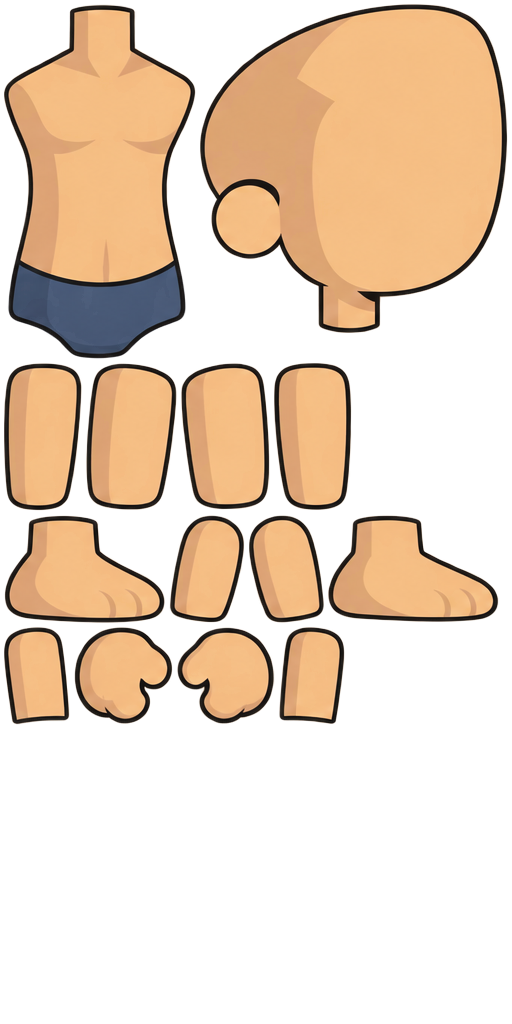
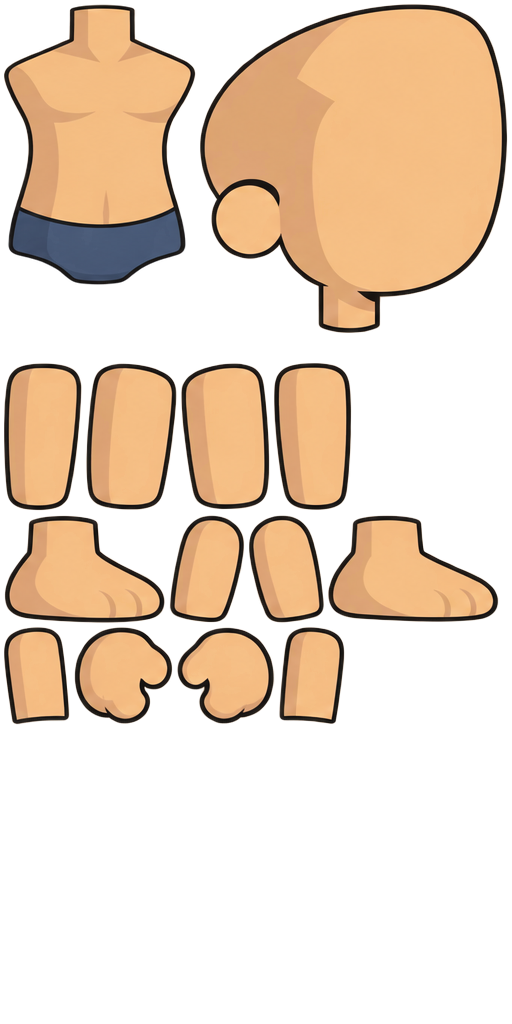
presentation: shorten humanoid central body proportions
Shorten the pelvis-to-head chain and the single torso sprite so the long rigid body can be tested without a new bone or a global scale change.

Changed region(s): [[0.0, 0.0, 0.4062, 0.375], [0.2188, 0.0, 0.25, 0.0312]]

diff --git a/tools/Character part lab/humanoid_v0_contract.js b/tools/Character part lab/humanoid_v0_contract.js
@@ -5,12 +5,12 @@ window.PURGATORY_HUMANOID_V0_CONTRACT = {
   bones: {
     'root': { parent: null, t: [0.00, 0.00], r: 0.00 },
     'pelvis': { parent: 'root', t: [0.00, 0.42], r: 0.00 },
-    'torso': { parent: 'pelvis', t: [0.00, 0.30], r: 0.00 },
-    'head': { parent: 'torso', t: [0.07, 0.24], r: 0.00 },
-    'upper_arm_front': { parent: 'torso', t: [-0.10, 0.14], r: 0.00 },
+    'torso': { parent: 'pelvis', t: [0.00, 0.23], r: 0.00 },
+    'head': { parent: 'torso', t: [0.07, 0.20], r: 0.00 },
+    'upper_arm_front': { parent: 'torso', t: [-0.10, 0.11], r: 0.00 },
     'lower_arm_front': { parent: 'upper_arm_front', t: [0.00, -0.22], r: 0.00 },
     'hand_front': { parent: 'lower_arm_front', t: [0.00, -0.10], r: 0.00 },
-    'upper_arm_back': { parent: 'torso', t: [0.08, 0.14], r: 0.00 },
+    'upper_arm_back': { parent: 'torso', t: [0.08, 0.11], r: 0.00 },
     'lower_arm_back': { parent: 'upper_arm_back', t: [0.00, -0.22], r: 0.50 },
     'hand_back': { parent: 'lower_arm_back', t: [0.00, -0.10], r: 0.00 },
     'upper_leg_front': { parent: 'pelvis', t: [-0.06, -0.04], r: 0.00 },

diff --git a/crates/skeleton/src/humanoid.rs b/crates/skeleton/src/humanoid.rs
@@ -55,15 +55,20 @@ const fn tr(x: f32, y: f32) -> BoneTransform {
 /// before art integration without changing bone topology.
 pub const BIND_ROOT: BoneTransform = tr(0.0, 0.0);
 pub const BIND_PELVIS: BoneTransform = tr(0.0, 0.42);
-pub const BIND_TORSO: BoneTransform = tr(0.0, 0.30);
+/// Rescue V1: pelvis→torso is 0.23 wu. With `BIND_HEAD` that is a 0.43 wu
+/// pelvis→head span, about 20% shorter than the previous 0.54 wu chain.
+/// Pelvis and leg binds are unchanged so the feet stay planted.
+pub const BIND_TORSO: BoneTransform = tr(0.0, 0.23);
 /// P4.2: +X lead so the head reads RIGHT-facing 3/4, not camera-front.
-pub const BIND_HEAD: BoneTransform = tr(0.07, 0.24);
+/// Y matches the shortened torso sprite (same neck gap above the chest art).
+pub const BIND_HEAD: BoneTransform = tr(0.07, 0.20);
 /// Near arm chain (Front). Bind X is the former Back shoulder X; Front identity is unchanged.
-pub const BIND_UPPER_ARM_FRONT: BoneTransform = tr(-0.10, 0.14);
+/// Y sits on the shortened chest (same fraction of the torso sprite as before).
+pub const BIND_UPPER_ARM_FRONT: BoneTransform = tr(-0.10, 0.11);
 pub const BIND_LOWER_ARM_FRONT: BoneTransform = tr(0.0, -0.22);
 pub const BIND_HAND_FRONT: BoneTransform = tr(0.0, -0.10);
 /// Far arm chain (Back). Bind X is the former Front shoulder X; Back identity is unchanged.
-pub const BIND_UPPER_ARM_BACK: BoneTransform = tr(0.08, 0.14);
+pub const BIND_UPPER_ARM_BACK: BoneTransform = tr(0.08, 0.11);
 /// Mild +CCW elbow bend (~29°) so the far forearm peeks toward +X (RIGHT). Length unchanged.
 pub const BIND_LOWER_ARM_BACK: BoneTransform =
     BoneTransform::from_translation_rotation([0.0, -0.22], 0.50);

diff --git a/crates/skeleton/src/tests.rs b/crates/skeleton/src/tests.rs
@@ -442,8 +442,8 @@ fn humanoid_v0_hip_bind_x_is_widened_neutral_stance() {
 fn humanoid_v0_shoulder_bind_x_is_three_quarter_right() {
     assert!((BIND_UPPER_ARM_FRONT.translation[0] + 0.10).abs() < EPS);
     assert!((BIND_UPPER_ARM_BACK.translation[0] - 0.08).abs() < EPS);
-    assert!((BIND_UPPER_ARM_FRONT.translation[1] - 0.14).abs() < EPS);
-    assert!((BIND_UPPER_ARM_BACK.translation[1] - 0.14).abs() < EPS);
+    assert!((BIND_UPPER_ARM_FRONT.translation[1] - 0.11).abs() < EPS);
+    assert!((BIND_UPPER_ARM_BACK.translation[1] - 0.11).abs() < EPS);
     assert!(BIND_UPPER_ARM_FRONT.rotation.abs() < EPS);
     assert!(BIND_UPPER_ARM_BACK.rotation.abs() < EPS);
     assert!(BIND_LOWER_ARM_FRONT.translation[0].abs() < EPS);
@@ -523,7 +523,13 @@ fn torso_placeholder_is_authored_in_torso_bone_local() {
 #[test]
 fn humanoid_v0_head_bind_leads_slightly_right() {
     assert!((BIND_HEAD.translation[0] - 0.07).abs() < EPS);
-    assert!((BIND_HEAD.translation[1] - 0.24).abs() < EPS);
+    assert!((BIND_HEAD.translation[1] - 0.20).abs() < EPS);
+    let central = BIND_TORSO.translation[1] + BIND_HEAD.translation[1];
+    assert!(
+        (central - 0.43).abs() < EPS,
+        "pelvis→head span must stay on the shortened rescue chain"
+    );
+    assert!((BIND_PELVIS.translation[1] - 0.42).abs() < EPS);
     assert!(BIND_HEAD.rotation.abs() < EPS);
 }
 

diff --git a/apps/client/src/skeleton_debug.rs b/apps/client/src/skeleton_debug.rs
@@ -2217,7 +2217,7 @@ mod tests {
         assert!(tr_eq(attach, head_xf.translation));
         assert!(c[2][0] - head_xf.translation[0] > head_xf.translation[0] - c[3][0]);
         assert!((BIND_HEAD.translation[0] - 0.07).abs() < EPS);
-        assert!((BIND_HEAD.translation[1] - 0.24).abs() < EPS);
+        assert!((BIND_HEAD.translation[1] - 0.20).abs() < EPS);
         assert!(head_xf.translation[0] > rig.world().get(TORSO).unwrap().translation[0]);
     }
 

diff --git a/docs/HUMANOID_RIG_SPEC.md b/docs/HUMANOID_RIG_SPEC.md
@@ -129,10 +129,10 @@ Current S1 bind locals (parent-relative, rotation 0 unless noted):
 
 - `root` `(0, 0)`
 - `pelvis` `(0, 0.42)`
-- `torso` `(0, 0.30)`
-- `head` `(0.07, 0.24)` — P4.2 +X lead (RIGHT-facing 3/4)
-- `upper_arm_front` `(-0.10, 0.14)` / `lower_arm_front` `(0, -0.22)` / `hand_front` `(0, -0.10)` — Front chain at the former Back shoulder X; Front identity unchanged
-- `upper_arm_back` `(0.08, 0.14)` / `lower_arm_back` `(0, -0.22)` rotation `+0.50` (~29°, peeks +X) / `hand_back` `(0, -0.10)` — Back chain at the former Front shoulder X; Back identity unchanged
+- `torso` `(0, 0.23)` — rescue V1 central-chain shortening; pelvis and legs unchanged
+- `head` `(0.07, 0.20)` — P4.2 +X lead (RIGHT-facing 3/4); Y follows the shortened torso sprite
+- `upper_arm_front` `(-0.10, 0.11)` / `lower_arm_front` `(0, -0.22)` / `hand_front` `(0, -0.10)` — Front chain at the former Back shoulder X; shoulder Y sits on the shortened chest; Front identity unchanged
+- `upper_arm_back` `(0.08, 0.11)` / `lower_arm_back` `(0, -0.22)` rotation `+0.50` (~29°, peeks +X) / `hand_back` `(0, -0.10)` — Back chain at the former Front shoulder X; shoulder Y matches the front; Back identity unchanged
 - `upper_leg_front` `(-0.06, -0.04)` / `lower_leg_front` `(0, -0.20)` / `foot_front` `(0, -0.18)`
 - `upper_leg_back` `(0.04, -0.04)` / `lower_leg_back` `(0, -0.20)` / `foot_back` `(0, -0.18)`
 
